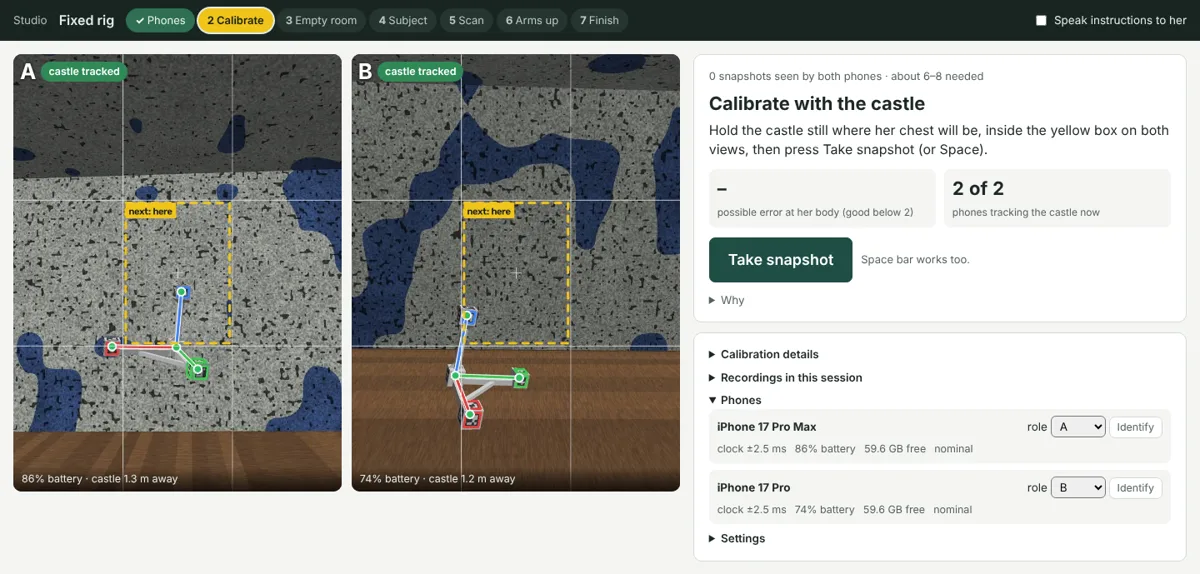
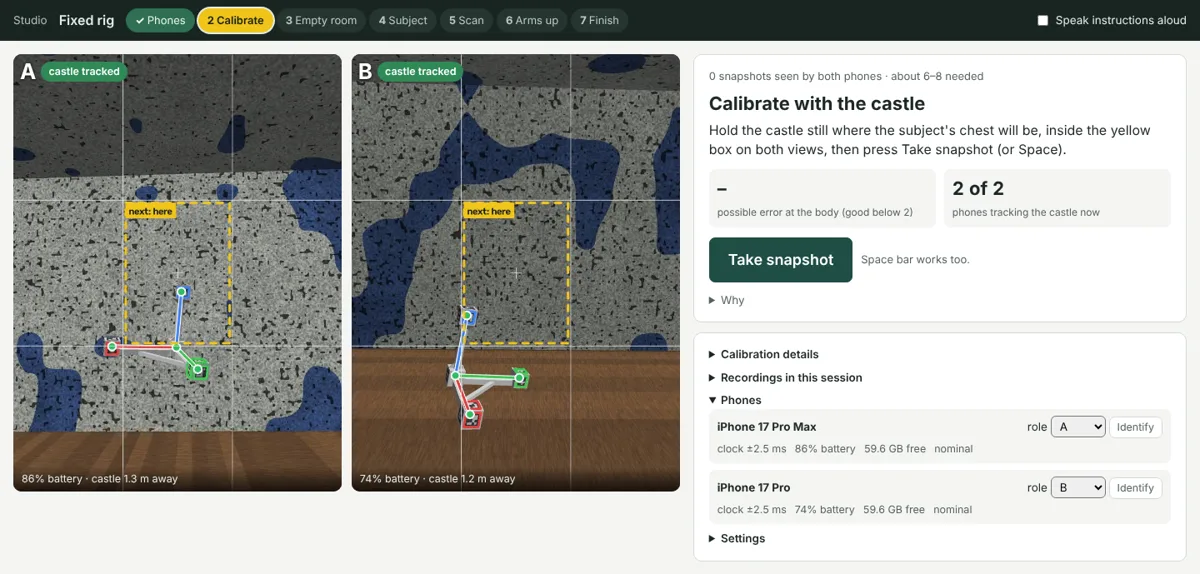
Guide and pages: gender-neutral wording throughout, screenshots retaken with the Studio's new wording
Follows Greg's edit (ba18888): the subject, they/their.

Claude-Session: https://claude.ai/code/session_018JbfmQhdHSr6butbGjTaUq

Changed region(s): [[0.5858, 0.2073, 0.9867, 0.2666], [0.8633, 0.0296, 0.9867, 0.0592], [0.6783, 0.3554, 0.7708, 0.385]]

diff --git a/guide.html b/guide.html
@@ -31,7 +31,7 @@
 <li><a href="#phones">Connect the phones</a></li>
 <li><a href="#calibrate">Calibrate</a></li>
 <li><a href="#empty">Empty room</a></li>
-<li><a href="#subject">Get her ready</a></li>
+<li><a href="#subject">Get the subject ready</a></li>
 <li><a href="#scan">Scan</a></li>
 <li><a href="#finish">Arms up and finish</a></li>
 <li><a href="#check">Check the result</a></li>
@@ -45,18 +45,18 @@
 <p>With the person on a turntable and the phones on stands, you run the session from a chair at the Mac. Studio's <b>Fixed rig</b> page is laid out for that:</p>
 <ul>
 <li><b>Left:</b> what each phone sees, live, about twice a second.</li>
-<li><b>Right:</b> the current step. What to do, what to say to her, and the one button that does it. The space bar presses that button, so you can keep your eyes on her.</li>
+<li><b>Right:</b> the current step. What to do, what to say to the subject, and the one button that does it. The space bar presses that button, so you can keep your eyes on them.</li>
 <li><b>Top:</b> the steps. Each turns green when it's done, and the page moves on by itself. Click any step to go back to it.</li>
 </ul>
-<p>Tick <b>Speak instructions to her</b> and the Mac reads the "Say to her" lines aloud, and tells her when each turn is done during the scan. Every step also has a folded <b>Why</b> if you want the reasoning.</p>
+<p>Tick <b>Speak instructions aloud</b> and the Mac reads the "Say to the subject" lines out loud, and says when each turn is done during the scan. Every step also has a folded <b>Why</b> if you want the reasoning.</p>
 
 <h2 id="phones">Connect the phones</h2>
-<p>On each iPhone, open Doppelmaker and turn on <b>Settings › Rig mode</b>. The phones appear under <b>Phones</b> on the rig page. Give the one in front of her role <b>A</b> and the one at her side role <b>B</b>. <b>Identify</b> flashes a phone's screen if you're not sure which is which.</p>
-<figure class="fig"><img src="/img/guide/phones.webp" width="1200" height="647" alt="The rig page with two phones connected and no roles yet: the step card lists Phone A and Phone B as not assigned">
+<p>On each iPhone, open Doppelmaker and turn on <b>Settings › Rig mode</b>. The phones appear under <b>Phones</b> on the rig page. Give the one in front of the subject role <b>A</b> and the one at their side role <b>B</b>. <b>Identify</b> flashes a phone's screen if you're not sure which is which.</p>
+<figure class="fig"><img src="/img/guide/phones.webp" width="1200" height="666" alt="The rig page with two phones connected and no roles yet: the step card lists Phone A and Phone B as not assigned">
 <figcaption>Two phones connected, no roles yet. The card says exactly what's missing.</figcaption></figure>
 
 <h2 id="calibrate">Calibrate</h2>
-<p>Hold the castle where her chest will be, in view of both phones, and press <b>Take snapshot</b>. Then move it somewhere new and take another: about six to eight in all, at different heights, distances and angles.</p>
+<p>Hold the castle where the subject's chest will be, in view of both phones, and press <b>Take snapshot</b>. Then move it somewhere new and take another: about six to eight in all, at different heights, distances and angles.</p>
 <figure class="fig"><img src="/img/guide/cal-first.webp" width="1200" height="574" alt="Both live views show the castle with its frame drawn over it, labelled castle tracked, and a yellow dashed box marked next: here">
 <figcaption>Both phones see the castle. Its frame is drawn over the picture where the phone thinks it is, and the label says "castle tracked". The yellow box shows where to hold it.</figcaption></figure>
 <p>What the live views show while you calibrate:</p>
@@ -66,40 +66,40 @@
 <li><b>A 3 × 3 grid.</b> Green squares are where the castle has already been; the yellow <b>"next: here"</b> box is the emptiest part of the picture. Aim for the box in both views at once, as near as you can.</li>
 </ul>
 <figure class="fig"><img src="/img/guide/cal-progress.webp" width="1200" height="624" alt="After three snapshots: possible error 2.2 millimetres, advice to put the castle in other parts of each picture, and Take snapshot and Good enough buttons">
-<figcaption>After three snapshots. The number is how far apart the two phones could disagree at her body; under 2 mm is good. "Good enough, continue" appears once it's usable.</figcaption></figure>
+<figcaption>After three snapshots. The number is how far apart the two phones could disagree at the body; under 2 mm is good. "Good enough, continue" appears once it's usable.</figcaption></figure>
 <p>When the error is under 2 mm with at least four snapshots, the step turns green and the page moves on. From then on, <b>don't touch the phones or their stands</b> until you're done scanning. If one gets bumped, the page notices (see <a href="#messages">Messages</a>).</p>
 
 <h2 id="empty">Record the empty room</h2>
 <p>Clear the turntable and both pictures: nobody standing behind, no pets. Lights as they'll be for the scan. Press <b>Record empty room</b>; it takes three seconds and stops by itself.</p>
 <figure class="fig"><img src="/img/guide/empty.webp" width="1200" height="568" alt="The empty-room step: both views show the empty room with a blue vertical line where the turntable centre is">
-<figcaption>The blue line in each view is where the phones are aimed: the middle of the turntable, where she should stand.</figcaption></figure>
-<p>This is the background her outline is cut against. Skipping it still works, but measurements come out about 3–4 mm worse around the body.</p>
+<figcaption>The blue line in each view is where the phones are aimed: the middle of the turntable, where the subject should stand.</figcaption></figure>
+<p>This is the background the subject's outline is cut against. Skipping it still works, but measurements come out about 3–4 mm worse around the body.</p>
 
-<h2 id="subject">Get her ready</h2>
-<p>The card has a short checklist (hair tied up, close-fitting clothes, arms a hand's width from her sides) and the words to say as she steps on.</p>
-<figure class="fig"><img src="/img/guide/subject.webp" width="1200" height="705" alt="The subject step: both views show the person on the turntable; the card shows what to say and a checklist, with a She's ready button">
-<figcaption>She's on the turntable, facing phone A. Press <b>She's ready</b> when she is.</figcaption></figure>
+<h2 id="subject">Get the subject ready</h2>
+<p>The card has a short checklist (hair tied up, close-fitting clothes, arms a hand's width from their sides) and the words to say as they step on.</p>
+<figure class="fig"><img src="/img/guide/subject.webp" width="1200" height="724" alt="The subject step: both views show the person on the turntable; the card shows what to say and a checklist, with a Subject is ready button">
+<figcaption>The subject is on the turntable, facing phone A. Press <b>Subject is ready</b> when they are.</figcaption></figure>
 
 <h2 id="scan">Scan</h2>
-<p>Press <b>Start scan</b>. Both phones start together after a short countdown. Turn the turntable slowly and steadily, twice, about 30 to 60 seconds a turn, and press <b>Stop</b> (or the space bar) when she faces phone A again.</p>
+<p>Press <b>Start scan</b>. Both phones start together after a short countdown. Turn the turntable slowly and steadily, twice, about 30 to 60 seconds a turn, and press <b>Stop</b> (or the space bar) when the subject faces phone A again.</p>
 <figure class="fig"><img src="/img/guide/scanning.webp" width="1200" height="569" alt="Scanning: both views marked REC, a timer, a progress bar for two turns and a red Stop button">
 <figcaption>While recording: a timer, a guide for the two turns, and Stop. The phones' frame counts show in the views.</figcaption></figure>
-<p>Then the phones send their recordings to the Mac. She can relax; this takes a few seconds to a minute on good Wi-Fi.</p>
-<figure class="fig"><img src="/img/guide/receiving.webp" width="1200" height="548" alt="Receiving the scan: per-phone sending progress">
+<p>Then the phones send their recordings to the Mac. The subject can relax; this takes a few seconds to a minute on good Wi-Fi.</p>
+<figure class="fig"><img src="/img/guide/receiving.webp" width="1200" height="567" alt="Receiving the scan: per-phone sending progress">
 <figcaption>Receiving: each phone's progress. If a phone was closed by mistake, <b>Discard this take</b> and scan again.</figcaption></figure>
 
 <h2 id="finish">Arms up and finish</h2>
-<p>An optional second take with her arms raised comes next; skip it if you don't need it. Then <b>Finish</b>: the card tells her she can step off, and <b>Process scan</b> sends everything to Studio.</p>
+<p>An optional second take with arms raised comes next; skip it if you don't need it. Then <b>Finish</b>: the card says they can step off, and <b>Process scan</b> sends everything to Studio.</p>
 <div class="duo">
-<figure class="fig" style="margin:0"><img src="/img/guide/arms-up.webp" width="1200" height="568" alt="The optional arms-up step with Start and Skip buttons"><figcaption>Optional: arms raised.</figcaption></figure>
+<figure class="fig" style="margin:0"><img src="/img/guide/arms-up.webp" width="1200" height="588" alt="The optional arms-up step with Start and Skip buttons"><figcaption>Optional: arms raised.</figcaption></figure>
 <figure class="fig" style="margin:0"><img src="/img/guide/finish.webp" width="1200" height="568" alt="The finish step with a Process scan button"><figcaption>Finish: process the session.</figcaption></figure>
 </div>
 
 <h2 id="check">Check the result</h2>
-<p>Processing takes a few minutes. Studio opens on <b>Scan check</b>: a verdict at the top, then one line per thing that was checked, each green, amber or red with a number. It tells you while she's still there whether the scan is good, so you can scan again on the spot.</p>
+<p>Processing takes a few minutes. Studio opens on <b>Scan check</b>: a verdict at the top, then one line per thing that was checked, each green, amber or red with a number. It tells you while the subject is still there whether the scan is good, so you can scan again on the spot.</p>
 <figure class="fig"><img src="/img/guide/studio-check.webp" width="1200" height="750" alt="Studio's Scan check tab: the fused LiDAR points and the reconstructed surface side by side, with a verdict and a list of checks">
-<figcaption>Scan check. Here the verdict is "usable, with warnings": phone A cut off part of her at the edge of its picture, and the line says how to fix that for next time.</figcaption></figure>
-<p><b>Outline diagnostics</b> shows how the outlines from each phone went, frame by frame: moments when something walked behind her, where the fit is loose, and the measurements from the outlines alone.</p>
+<figcaption>Scan check. Here the verdict is "usable, with warnings": phone A cut off part of the subject at the edge of its picture, and the line says how to fix that for next time.</figcaption></figure>
+<p><b>Outline diagnostics</b> shows how the outlines from each phone went, frame by frame: moments when something walked behind the subject, where the fit is loose, and the measurements from the outlines alone.</p>
 <p>The next tabs turn the scan into a form:</p>
 <ul>
 <li><b>Shape</b>: the surface in its body frame, and a symmetric version if you want one.</li>
@@ -122,7 +122,7 @@
 <tr><td>Phone B has 2.1 GB free.</td><td>A scan needs about a gigabyte. Free some space on the phone.</td></tr>
 <tr><td>Both phones need to track the castle.</td><td>Move the castle so both views show "castle tracked", or "partly in view".</td></tr>
 <tr><td>Snapshot s04 disagrees with the others.</td><td>The castle probably moved while that snapshot was taken. Open Calibration details and press Drop next to it.</td></tr>
-<tr><td>No empty-room recording.</td><td>Record it before she steps on: it's worth 3–4 mm around the body.</td></tr>
+<tr><td>No empty-room recording.</td><td>Record it before the subject steps on: it's worth 3–4 mm around the body.</td></tr>
 <tr><td>A phone is taking a long time to send its recording.</td><td>Keep Doppelmaker open on both phones; the Wi-Fi may be slow. Discard the take only if a phone was closed.</td></tr>
 <tr><td>Recalibrate: phone A moved.</td><td>Its picture shifted against the room since calibration. Tighten its stand, press Reset calibration, and take new snapshots.</td></tr>
 </table></div>

diff --git a/pages/guide.html b/pages/guide.html
@@ -9,7 +9,7 @@
 <li><a href="#phones">Connect the phones</a></li>
 <li><a href="#calibrate">Calibrate</a></li>
 <li><a href="#empty">Empty room</a></li>
-<li><a href="#subject">Get her ready</a></li>
+<li><a href="#subject">Get the subject ready</a></li>
 <li><a href="#scan">Scan</a></li>
 <li><a href="#finish">Arms up and finish</a></li>
 <li><a href="#check">Check the result</a></li>
@@ -23,18 +23,18 @@
 <p>With the person on a turntable and the phones on stands, you run the session from a chair at the Mac. Studio's <b>Fixed rig</b> page is laid out for that:</p>
 <ul>
 <li><b>Left:</b> what each phone sees, live, about twice a second.</li>
-<li><b>Right:</b> the current step. What to do, what to say to her, and the one button that does it. The space bar presses that button, so you can keep your eyes on her.</li>
+<li><b>Right:</b> the current step. What to do, what to say to the subject, and the one button that does it. The space bar presses that button, so you can keep your eyes on them.</li>
 <li><b>Top:</b> the steps. Each turns green when it's done, and the page moves on by itself. Click any step to go back to it.</li>
 </ul>
-<p>Tick <b>Speak instructions to her</b> and the Mac reads the "Say to her" lines aloud, and tells her when each turn is done during the scan. Every step also has a folded <b>Why</b> if you want the reasoning.</p>
+<p>Tick <b>Speak instructions aloud</b> and the Mac reads the "Say to the subject" lines out loud, and says when each turn is done during the scan. Every step also has a folded <b>Why</b> if you want the reasoning.</p>
 
 <h2 id="phones">Connect the phones</h2>
-<p>On each iPhone, open Doppelmaker and turn on <b>Settings › Rig mode</b>. The phones appear under <b>Phones</b> on the rig page. Give the one in front of her role <b>A</b> and the one at her side role <b>B</b>. <b>Identify</b> flashes a phone's screen if you're not sure which is which.</p>
-<figure class="fig"><img src="/img/guide/phones.webp" width="1200" height="647" alt="The rig page with two phones connected and no roles yet: the step card lists Phone A and Phone B as not assigned">
+<p>On each iPhone, open Doppelmaker and turn on <b>Settings › Rig mode</b>. The phones appear under <b>Phones</b> on the rig page. Give the one in front of the subject role <b>A</b> and the one at their side role <b>B</b>. <b>Identify</b> flashes a phone's screen if you're not sure which is which.</p>
+<figure class="fig"><img src="/img/guide/phones.webp" width="1200" height="666" alt="The rig page with two phones connected and no roles yet: the step card lists Phone A and Phone B as not assigned">
 <figcaption>Two phones connected, no roles yet. The card says exactly what's missing.</figcaption></figure>
 
 <h2 id="calibrate">Calibrate</h2>
-<p>Hold the castle where her chest will be, in view of both phones, and press <b>Take snapshot</b>. Then move it somewhere new and take another: about six to eight in all, at different heights, distances and angles.</p>
+<p>Hold the castle where the subject's chest will be, in view of both phones, and press <b>Take snapshot</b>. Then move it somewhere new and take another: about six to eight in all, at different heights, distances and angles.</p>
 <figure class="fig"><img src="/img/guide/cal-first.webp" width="1200" height="574" alt="Both live views show the castle with its frame drawn over it, labelled castle tracked, and a yellow dashed box marked next: here">
 <figcaption>Both phones see the castle. Its frame is drawn over the picture where the phone thinks it is, and the label says "castle tracked". The yellow box shows where to hold it.</figcaption></figure>
 <p>What the live views show while you calibrate:</p>
@@ -44,40 +44,40 @@
 <li><b>A 3 × 3 grid.</b> Green squares are where the castle has already been; the yellow <b>"next: here"</b> box is the emptiest part of the picture. Aim for the box in both views at once, as near as you can.</li>
 </ul>
 <figure class="fig"><img src="/img/guide/cal-progress.webp" width="1200" height="624" alt="After three snapshots: possible error 2.2 millimetres, advice to put the castle in other parts of each picture, and Take snapshot and Good enough buttons">
-<figcaption>After three snapshots. The number is how far apart the two phones could disagree at her body; under 2 mm is good. "Good enough, continue" appears once it's usable.</figcaption></figure>
+<figcaption>After three snapshots. The number is how far apart the two phones could disagree at the body; under 2 mm is good. "Good enough, continue" appears once it's usable.</figcaption></figure>
 <p>When the error is under 2 mm with at least four snapshots, the step turns green and the page moves on. From then on, <b>don't touch the phones or their stands</b> until you're done scanning. If one gets bumped, the page notices (see <a href="#messages">Messages</a>).</p>
 
 <h2 id="empty">Record the empty room</h2>
 <p>Clear the turntable and both pictures: nobody standing behind, no pets. Lights as they'll be for the scan. Press <b>Record empty room</b>; it takes three seconds and stops by itself.</p>
 <figure class="fig"><img src="/img/guide/empty.webp" width="1200" height="568" alt="The empty-room step: both views show the empty room with a blue vertical line where the turntable centre is">
-<figcaption>The blue line in each view is where the phones are aimed: the middle of the turntable, where she should stand.</figcaption></figure>
-<p>This is the background her outline is cut against. Skipping it still works, but measurements come out about 3–4 mm worse around the body.</p>
+<figcaption>The blue line in each view is where the phones are aimed: the middle of the turntable, where the subject should stand.</figcaption></figure>
+<p>This is the background the subject's outline is cut against. Skipping it still works, but measurements come out about 3–4 mm worse around the body.</p>
 
-<h2 id="subject">Get her ready</h2>
-<p>The card has a short checklist (hair tied up, close-fitting clothes, arms a hand's width from her sides) and the words to say as she steps on.</p>
-<figure class="fig"><img src="/img/guide/subject.webp" width="1200" height="705" alt="The subject step: both views show the person on the turntable; the card shows what to say and a checklist, with a She's ready button">
-<figcaption>She's on the turntable, facing phone A. Press <b>She's ready</b> when she is.</figcaption></figure>
+<h2 id="subject">Get the subject ready</h2>
+<p>The card has a short checklist (hair tied up, close-fitting clothes, arms a hand's width from their sides) and the words to say as they step on.</p>
+<figure class="fig"><img src="/img/guide/subject.webp" width="1200" height="724" alt="The subject step: both views show the person on the turntable; the card shows what to say and a checklist, with a Subject is ready button">
+<figcaption>The subject is on the turntable, facing phone A. Press <b>Subject is ready</b> when they are.</figcaption></figure>
 
 <h2 id="scan">Scan</h2>
-<p>Press <b>Start scan</b>. Both phones start together after a short countdown. Turn the turntable slowly and steadily, twice, about 30 to 60 seconds a turn, and press <b>Stop</b> (or the space bar) when she faces phone A again.</p>
+<p>Press <b>Start scan</b>. Both phones start together after a short countdown. Turn the turntable slowly and steadily, twice, about 30 to 60 seconds a turn, and press <b>Stop</b> (or the space bar) when the subject faces phone A again.</p>
 <figure class="fig"><img src="/img/guide/scanning.webp" width="1200" height="569" alt="Scanning: both views marked REC, a timer, a progress bar for two turns and a red Stop button">
 <figcaption>While recording: a timer, a guide for the two turns, and Stop. The phones' frame counts show in the views.</figcaption></figure>
-<p>Then the phones send their recordings to the Mac. She can relax; this takes a few seconds to a minute on good Wi-Fi.</p>
-<figure class="fig"><img src="/img/guide/receiving.webp" width="1200" height="548" alt="Receiving the scan: per-phone sending progress">
+<p>Then the phones send their recordings to the Mac. The subject can relax; this takes a few seconds to a minute on good Wi-Fi.</p>
+<figure class="fig"><img src="/img/guide/receiving.webp" width="1200" height="567" alt="Receiving the scan: per-phone sending progress">
 <figcaption>Receiving: each phone's progress. If a phone was closed by mistake, <b>Discard this take</b> and scan again.</figcaption></figure>
 
 <h2 id="finish">Arms up and finish</h2>
-<p>An optional second take with her arms raised comes next; skip it if you don't need it. Then <b>Finish</b>: the card tells her she can step off, and <b>Process scan</b> sends everything to Studio.</p>
+<p>An optional second take with arms raised comes next; skip it if you don't need it. Then <b>Finish</b>: the card says they can step off, and <b>Process scan</b> sends everything to Studio.</p>
 <div class="duo">
-<figure class="fig" style="margin:0"><img src="/img/guide/arms-up.webp" width="1200" height="568" alt="The optional arms-up step with Start and Skip buttons"><figcaption>Optional: arms raised.</figcaption></figure>
+<figure class="fig" style="margin:0"><img src="/img/guide/arms-up.webp" width="1200" height="588" alt="The optional arms-up step with Start and Skip buttons"><figcaption>Optional: arms raised.</figcaption></figure>
 <figure class="fig" style="margin:0"><img src="/img/guide/finish.webp" width="1200" height="568" alt="The finish step with a Process scan button"><figcaption>Finish: process the session.</figcaption></figure>
 </div>
 
 <h2 id="check">Check the result</h2>
-<p>Processing takes a few minutes. Studio opens on <b>Scan check</b>: a verdict at the top, then one line per thing that was checked, each green, amber or red with a number. It tells you while she's still there whether the scan is good, so you can scan again on the spot.</p>
+<p>Processing takes a few minutes. Studio opens on <b>Scan check</b>: a verdict at the top, then one line per thing that was checked, each green, amber or red with a number. It tells you while the subject is still there whether the scan is good, so you can scan again on the spot.</p>
 <figure class="fig"><img src="/img/guide/studio-check.webp" width="1200" height="750" alt="Studio's Scan check tab: the fused LiDAR points and the reconstructed surface side by side, with a verdict and a list of checks">
-<figcaption>Scan check. Here the verdict is "usable, with warnings": phone A cut off part of her at the edge of its picture, and the line says how to fix that for next time.</figcaption></figure>
-<p><b>Outline diagnostics</b> shows how the outlines from each phone went, frame by frame: moments when something walked behind her, where the fit is loose, and the measurements from the outlines alone.</p>
+<figcaption>Scan check. Here the verdict is "usable, with warnings": phone A cut off part of the subject at the edge of its picture, and the line says how to fix that for next time.</figcaption></figure>
+<p><b>Outline diagnostics</b> shows how the outlines from each phone went, frame by frame: moments when something walked behind the subject, where the fit is loose, and the measurements from the outlines alone.</p>
 <p>The next tabs turn the scan into a form:</p>
 <ul>
 <li><b>Shape</b>: the surface in its body frame, and a symmetric version if you want one.</li>
@@ -100,7 +100,7 @@
 <tr><td>Phone B has 2.1 GB free.</td><td>A scan needs about a gigabyte. Free some space on the phone.</td></tr>
 <tr><td>Both phones need to track the castle.</td><td>Move the castle so both views show "castle tracked", or "partly in view".</td></tr>
 <tr><td>Snapshot s04 disagrees with the others.</td><td>The castle probably moved while that snapshot was taken. Open Calibration details and press Drop next to it.</td></tr>
-<tr><td>No empty-room recording.</td><td>Record it before she steps on: it's worth 3–4 mm around the body.</td></tr>
+<tr><td>No empty-room recording.</td><td>Record it before the subject steps on: it's worth 3–4 mm around the body.</td></tr>
 <tr><td>A phone is taking a long time to send its recording.</td><td>Keep Doppelmaker open on both phones; the Wi-Fi may be slow. Discard the take only if a phone was closed.</td></tr>
 <tr><td>Recalibrate: phone A moved.</td><td>Its picture shifted against the room since calibration. Tighten its stand, press Reset calibration, and take new snapshots.</td></tr>
 </table></div>

diff --git a/how-it-works.html b/how-it-works.html
@@ -86,7 +86,7 @@
   <rect x="545" y="127" width="14" height="26" rx="3" fill="#17221e"/><text class="lbl" x="506" y="176">camera B</text>
   <text x="10" y="290">Each dashed line touches the body at one</text><text x="10" y="308">point (dots) and never goes inside it.</text>
 </svg>
-<figcaption>Seen from above. Each camera's outline gives lines that just touch the body. With two cameras at right angles, the lines fence it in on four sides; as the subject turns, many more.</figcaption>
+<figcaption>Seen from above. Each camera's outline gives lines that just touch the body. With two cameras at right angles, the lines fence it in on four sides; as they turn, many more.</figcaption>
 </figure>
 <p>So Doppelmaker uses each sensor for what it's good at:</p>
 <ul>
@@ -116,11 +116,11 @@
 </svg>
 <figcaption>Each phone is unsure along its own line of sight (long ellipses). At right angles, the uncertainties cross, and only the small middle is left.</figcaption>
 </figure>
-<p>Right angles help with motion too. If they sway forward and back, phone A sees that as a small change in distance, which is hard to measure. Phone B sees the same sway as their outline sliding sideways across its picture, which is easy. Phone B is also mounted higher, looking down, so it sees the tops of the shoulders that phone A, at navel height, can't.</p>
+<p>Right angles help with motion too. If the subject sways forward and back, phone A sees that as a small change in distance, which is hard to measure. Phone B sees the same sway as their outline sliding sideways across its picture, which is easy. Phone B is also mounted higher, looking down, so it sees the tops of the shoulders that phone A, at navel height, can't.</p>
 
 <h2 id="turntable">Why a turntable</h2>
 <p>The usual way to scan a person is to walk around them with a phone. That has two problems. The phone has to work out where it is as it moves, and small errors in that add up over a minute, so the far side of the body ends up a few millimetres off from the near side. And the person sways while the camera is behind them, with nothing to notice it.</p>
-<p>Doppelmaker turns it around: the phones stay fixed and the person turns on a turntable. The phones' positions are measured once, very precisely, with a printed calibration target, and never change. Since the room is still and the phones don't move, any change in what they see is her. Doppelmaker follows their slow turn and their small movements and undoes them, frame by frame, before combining anything.</p>
+<p>Doppelmaker turns it around: the phones stay fixed and the person turns on a turntable. The phones' positions are measured once, very precisely, with a printed calibration target, and never change. Since the room is still and the phones don't move, any change in what they see is the subject. Doppelmaker follows their slow turn and their small movements and undoes them, frame by frame, before combining anything.</p>
 <p><a href="/rig.html">The rig page</a> describes the setup.</p>
 
 <h2 id="motion">Blur, sway and breathing</h2>
@@ -129,7 +129,7 @@
 <p>For an outline, blur matters because the edge stops being a sharp step and becomes a ramp, so where exactly is the edge? Doppelmaker puts it halfway up the ramp, which is right for a symmetric smear, but the wider the ramp, the less certain that is.</p>
 <p>Some numbers. A turntable doing one turn in 40 seconds moves the side of a waist (15 cm from the centre) at about 2.4 cm per second. In a 1/100 s exposure that is 0.24 mm of smear: far below one pixel. A phone swung around someone by hand easily moves its view at half a metre per second at the body, which is 5 mm of smear in the same exposure. A slow turntable and fixed phones are much kinder to edges. The phones also lock their exposure during a scan, so brightness doesn't change from frame to frame.</p>
 <h3>Sway</h3>
-<p>Nobody stands perfectly still. Doppelmaker cuts the recording into short slices of time and, for each slice, works out exactly how they was standing: how far they had turned, and how they had leaned. It does this with a method called <b>ICP</b> (iterative closest point): take the LiDAR points from this moment, pair each one with the nearest point on the shape built so far, find the small turn and shift that best lines up the pairs, and repeat until nothing moves. Once every slice is lined up, everything is combined as if she had stood perfectly still.</p>
+<p>Nobody stands perfectly still. Doppelmaker cuts the recording into short slices of time and, for each slice, works out exactly how they were standing: how far they had turned, and how they had leaned. It does this with a method called <b>ICP</b> (iterative closest point): take the LiDAR points from this moment, pair each one with the nearest point on the shape built so far, find the small turn and shift that best lines up the pairs, and repeat until nothing moves. Once every slice is lined up, everything is combined as if they had stood perfectly still.</p>
 <h3>Breathing</h3>
 <p>Breathing changes the chest's girth by a centimetre or more. That can't be lined up away: the shape itself changes. Doppelmaker measures how much the chest moved during the scan, averages over the breaths, and warns if the breathing was deep enough to matter. For the scan itself, gentle, even breathing is best.</p>
 
@@ -137,7 +137,7 @@
 <ol>
 <li><b>Calibrate.</b> A printed target covered in square markers (like QR codes, but simpler) stands on the turntable. Each marker's corners are at known places on the target. From where those corners appear in a picture, the phone's position follows, like working out where you are standing from the corners of a building you know. Several snapshots from different angles are adjusted together until they all agree.</li>
 <li><b>Learn the empty room.</b> A few seconds of recording with nobody there gives each pixel's usual colour, and how much it flickers (a TV or a window flickers a lot).</li>
-<li><b>Track.</b> During the scan, ICP (above) follows the subject turn and sway, slice by slice.</li>
+<li><b>Track.</b> During the scan, ICP (above) follows them turn and sway, slice by slice.</li>
 <li><b>Fuse the depth.</b> Space is chopped into small cubes, 4 mm on a side. Every LiDAR measurement votes on how far each nearby cube is from the surface; each cube keeps the running average. The surface is wherever that average crosses zero. Thousands of noisy votes average into a smooth surface.</li>
 <li><b>Trace the outlines.</b> In every frame, their pixels are the ones that differ from the empty room, are near the LiDAR shape, and aren't far behind them (the LiDAR says how far away everything is). Their edge is found to a fraction of a pixel.</li>
 <li><b>Refine.</b> The surface is adjusted to agree with everything at once: the outlines from both phones, the LiDAR, and each phone's LiDAR bias. It's one large least-squares problem, the same idea as fitting a line through scattered points, with millions of points and a few thousand unknowns. Measurements that disagree with all the others (a hand that moved, a cat that walked through) get less and less say until they're ignored.</li>
@@ -146,7 +146,7 @@
 </ol>
 
 <h2 id="checks">Knowing it worked</h2>
-<p>Every step reports checks: how far the phones' views agree, how much they moved, how much of the surface was guessed rather than seen. If something is off, Studio says what and where, so you can scan again while she's still there.</p>
+<p>Every step reports checks: how far the phones' views agree, how much they moved, how much of the surface was guessed rather than seen. If something is off, Studio says what and where, so you can scan again while they're still there.</p>
 <p>Before any of this touches a real person, it runs on a <b>digital twin</b>: a simulated person with a known shape, scanned by simulated phones with realistic noise, biases, sway and even passers-by. Because the true shape is known, every number can be checked. The images on this site come from that twin.</p>
 <p>For the real world, there is a printed <b>test target</b> whose exact shape is known. Scanning it measures the whole chain end to end, from the phones' lenses to the printed parts.</p>
 </article>

diff --git a/rig.html b/rig.html
@@ -53,7 +53,7 @@
   <line x1="280" y1="282" x2="280" y2="214" stroke="#3a64a8" stroke-width="2" stroke-dasharray="6 5"/>
   <text x="288" y="252">about 1 m</text>
   <rect x="452" y="138" width="14" height="24" rx="3" fill="#17221e"/>
-  <text class="lbl" x="430" y="186">phone B</text><text x="400" y="203">at their side, above</text><text x="400" y="219">the shoulders</text>
+  <text class="lbl" x="430" y="186">phone B</text><text x="400" y="203">at the subject's side, above</text><text x="400" y="219">the shoulders</text>
   <line x1="452" y1="150" x2="344" y2="150" stroke="#3a64a8" stroke-width="2" stroke-dasharray="6 5"/>
   <text x="372" y="140">about 1 m</text>
 </svg>
@@ -77,20 +77,20 @@
 <h2 id="good">What makes a good scan</h2>
 <h3>Clothing and hair</h3>
 <ul>
-<li><b>Close-fitting, matte, mid-tone</b> clothing, ideally what the garments will be fitted over. The form follows whatever the subject wears: loose fabric makes a loose form.</li>
+<li><b>Close-fitting, matte, mid-tone</b> clothing, ideally what the garments will be fitted over. The form follows whatever they wear: loose fabric makes a loose form.</li>
 <li><b>Tie hair up</b> above the neck. Hair over the shoulders becomes part of the outline.</li>
 <li><b>Arms a hand's width out.</b> An arm against their side hides that side from both phones.</li>
 </ul>
 <h3>The room</h3>
 <ul>
 <li><b>Even light.</b> No strong window or lamp directly behind them in either phone's view.</li>
-<li><b>Contrast behind her.</b> A background that isn't the colour of their skin or clothing gives the sharpest outlines. A plain dark or saturated backdrop behind each phone's view is the simplest fix where Studio reports weak contrast.</li>
+<li><b>Contrast behind the subject.</b> A background that isn't the colour of their skin or clothing gives the sharpest outlines. A plain dark or saturated backdrop behind each phone's view is the simplest fix where Studio reports weak contrast.</li>
 <li><b>Leave the room alone</b> after the empty-rig recording: same lights, same doors. Re-record it if anything changes.</li>
 </ul>
 <h3>What doesn't matter</h3>
 <ul>
-<li>Shadows, clutter and anything more than a quarter of a metre behind her: the LiDAR rules it out by distance.</li>
-<li>People or pets moving a metre or more behind her. Doppelmaker notices them and ignores those frames' outlines where they cross.</li>
+<li>Shadows, clutter and anything more than a quarter of a metre behind the subject: the LiDAR rules it out by distance.</li>
+<li>People or pets moving a metre or more behind the subject. Doppelmaker notices them and ignores those frames' outlines where they cross.</li>
 <li>Markers: optional. Small printed stickers on bony places can help tracking a featureless shape, but on a person the result is the same without them.</li>
 </ul>
 <h3>The person</h3>

diff --git a/index.html b/index.html
@@ -50,7 +50,7 @@
 <li><div class="thumb"><img src="/img/shots/outline.webp" width="540" height="720" alt="A phone's view of the subject with their outline traced in green"></div>
 <h3>Scan</h3><p>The subject turns slowly on a turntable while two phones record. Doppelmaker traces their outline in every frame.</p></li>
 <li><div class="thumb"><img src="/img/shots/body.webp" width="776" height="800" alt="The reconstructed torso"></div>
-<h3>Shape</h3><p>LiDAR depth and both outlines become one surface, with their sway and breathing taken out.</p></li>
+<h3>Shape</h3><p>LiDAR depth and both outlines become one surface, with the subject's sway and breathing taken out.</p></li>
 <li><div class="thumb"><img src="/img/shots/assembled.webp" width="1064" height="1173" alt="The finished form"></div>
 <h3>Design</h3><p>Choose the neckline, shoulders, arms and hem. Studio builds a rigid core inside a pinnable shell.</p></li>
 <li><div class="thumb"><img src="/img/shots/plate.webp" width="800" height="637" alt="A piece on the print bed"></div>
@@ -64,7 +64,7 @@
 <figure style="margin:0"><img src="/img/guide/cal-first.webp" width="1200" height="574" alt="Doppelmaker Studio's rig page: both phones' live views with the calibration castle tracked, and the current step on the right" style="border-radius:10px;box-shadow:0 10px 30px rgba(0,0,0,.18)"></figure>
 <div class="copy">
 <h2>Run it from a chair</h2>
-<p>The phones stay put and she turns, so you can sit at the Mac. Studio shows what both phones see, one step at a time: what to do, what to say to her, and a single button for it. It can even say the instructions out loud.</p>
+<p>The phones stay put and the subject turns, so you can sit at the Mac. Studio shows what both phones see, one step at a time: what to do, what to say to the subject, and a single button for it. It can even say the instructions out loud.</p>
 <p><a href="/guide.html">Walk through a whole session</a></p>
 </div>
 </div>

diff --git a/pages/rig.html b/pages/rig.html
@@ -62,13 +62,13 @@
 <h3>The room</h3>
 <ul>
 <li><b>Even light.</b> No strong window or lamp directly behind them in either phone's view.</li>
-<li><b>Contrast behind her.</b> A background that isn't the colour of their skin or clothing gives the sharpest outlines. A plain dark or saturated backdrop behind each phone's view is the simplest fix where Studio reports weak contrast.</li>
+<li><b>Contrast behind the subject.</b> A background that isn't the colour of their skin or clothing gives the sharpest outlines. A plain dark or saturated backdrop behind each phone's view is the simplest fix where Studio reports weak contrast.</li>
 <li><b>Leave the room alone</b> after the empty-rig recording: same lights, same doors. Re-record it if anything changes.</li>
 </ul>
 <h3>What doesn't matter</h3>
 <ul>
-<li>Shadows, clutter and anything more than a quarter of a metre behind her: the LiDAR rules it out by distance.</li>
-<li>People or pets moving a metre or more behind her. Doppelmaker notices them and ignores those frames' outlines where they cross.</li>
+<li>Shadows, clutter and anything more than a quarter of a metre behind the subject: the LiDAR rules it out by distance.</li>
+<li>People or pets moving a metre or more behind the subject. Doppelmaker notices them and ignores those frames' outlines where they cross.</li>
 <li>Markers: optional. Small printed stickers on bony places can help tracking a featureless shape, but on a person the result is the same without them.</li>
 </ul>
 <h3>The person</h3>

diff --git a/pages/how-it-works.html b/pages/how-it-works.html
@@ -98,7 +98,7 @@
 
 <h2 id="turntable">Why a turntable</h2>
 <p>The usual way to scan a person is to walk around them with a phone. That has two problems. The phone has to work out where it is as it moves, and small errors in that add up over a minute, so the far side of the body ends up a few millimetres off from the near side. And the person sways while the camera is behind them, with nothing to notice it.</p>
-<p>Doppelmaker turns it around: the phones stay fixed and the person turns on a turntable. The phones' positions are measured once, very precisely, with a printed calibration target, and never change. Since the room is still and the phones don't move, any change in what they see is her. Doppelmaker follows their slow turn and their small movements and undoes them, frame by frame, before combining anything.</p>
+<p>Doppelmaker turns it around: the phones stay fixed and the person turns on a turntable. The phones' positions are measured once, very precisely, with a printed calibration target, and never change. Since the room is still and the phones don't move, any change in what they see is the subject. Doppelmaker follows their slow turn and their small movements and undoes them, frame by frame, before combining anything.</p>
 <p><a href="/rig.html">The rig page</a> describes the setup.</p>
 
 <h2 id="motion">Blur, sway and breathing</h2>

diff --git a/pages/index.html b/pages/index.html
@@ -42,7 +42,7 @@
 <figure style="margin:0"><img src="/img/guide/cal-first.webp" width="1200" height="574" alt="Doppelmaker Studio's rig page: both phones' live views with the calibration castle tracked, and the current step on the right" style="border-radius:10px;box-shadow:0 10px 30px rgba(0,0,0,.18)"></figure>
 <div class="copy">
 <h2>Run it from a chair</h2>
-<p>The phones stay put and she turns, so you can sit at the Mac. Studio shows what both phones see, one step at a time: what to do, what to say to her, and a single button for it. It can even say the instructions out loud.</p>
+<p>The phones stay put and the subject turns, so you can sit at the Mac. Studio shows what both phones see, one step at a time: what to do, what to say to the subject, and a single button for it. It can even say the instructions out loud.</p>
 <p><a href="/guide.html">Walk through a whole session</a></p>
 </div>
 </div>
